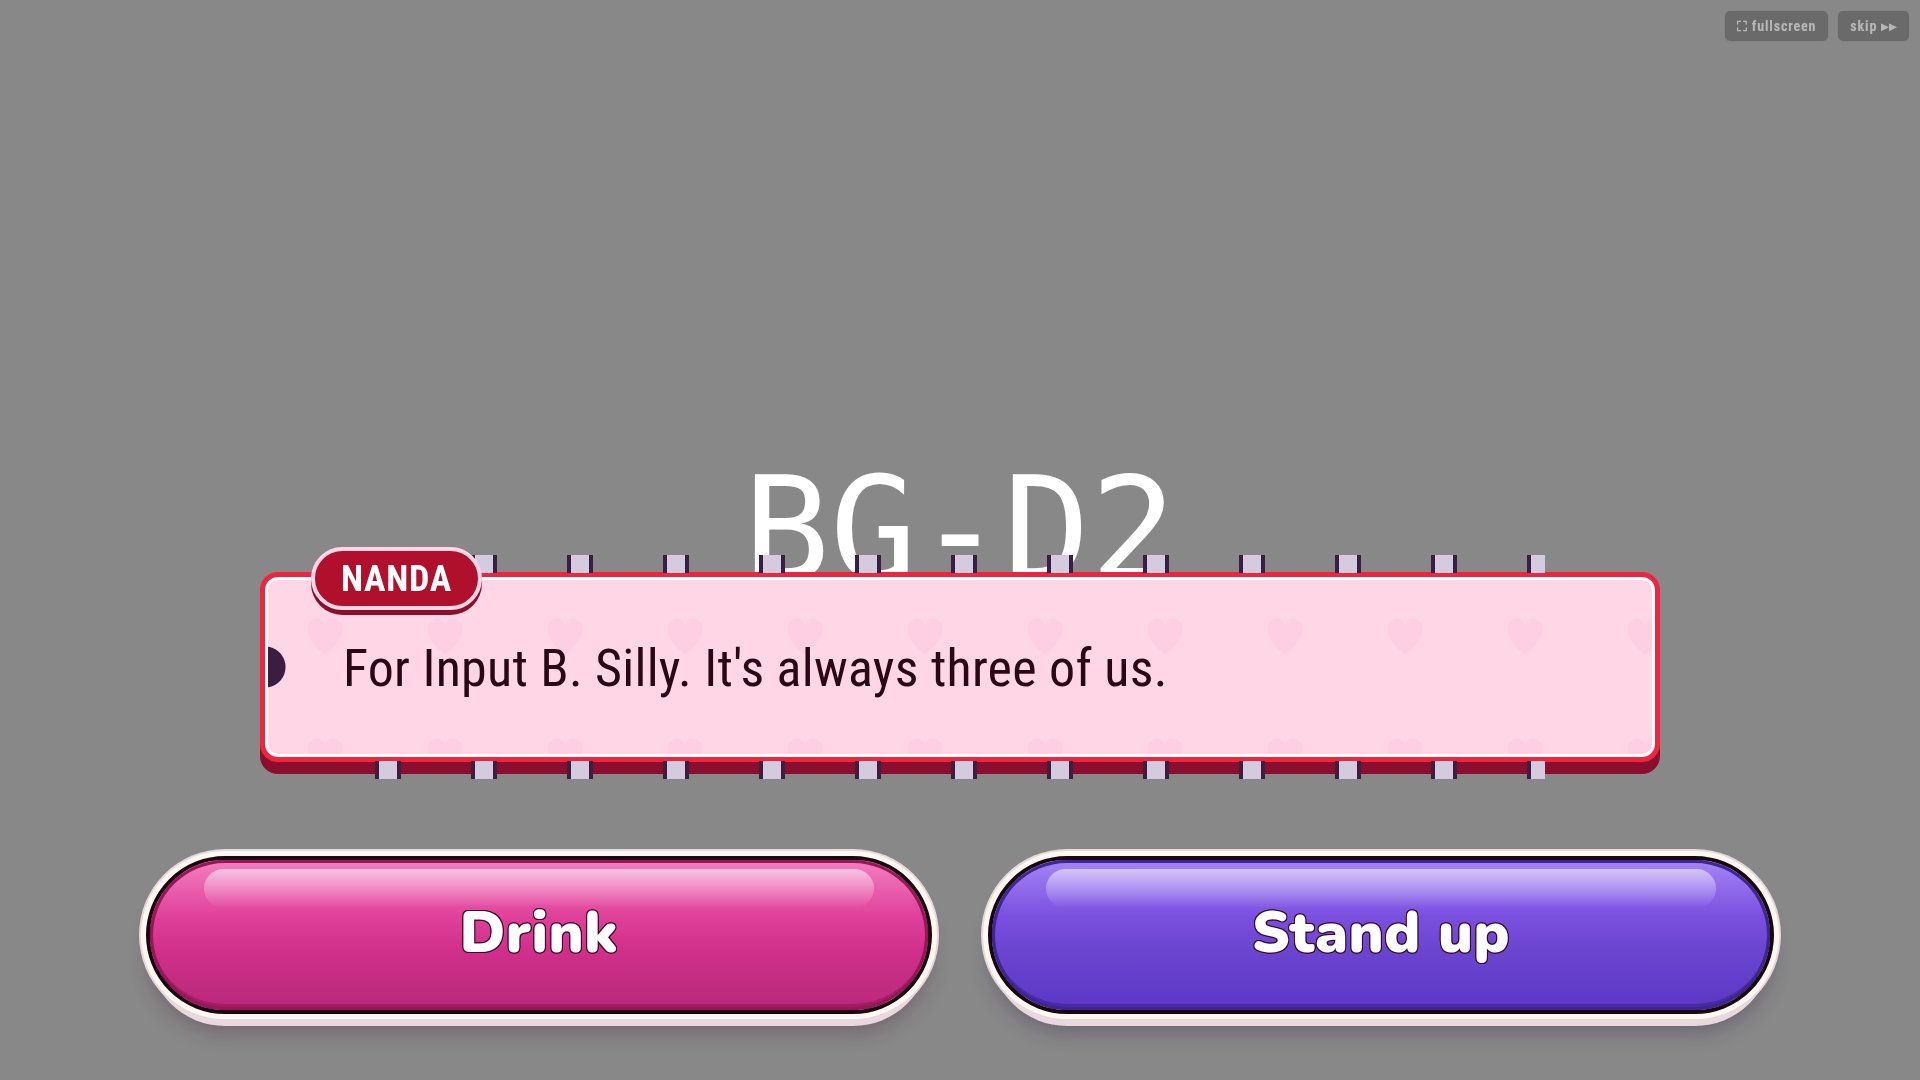
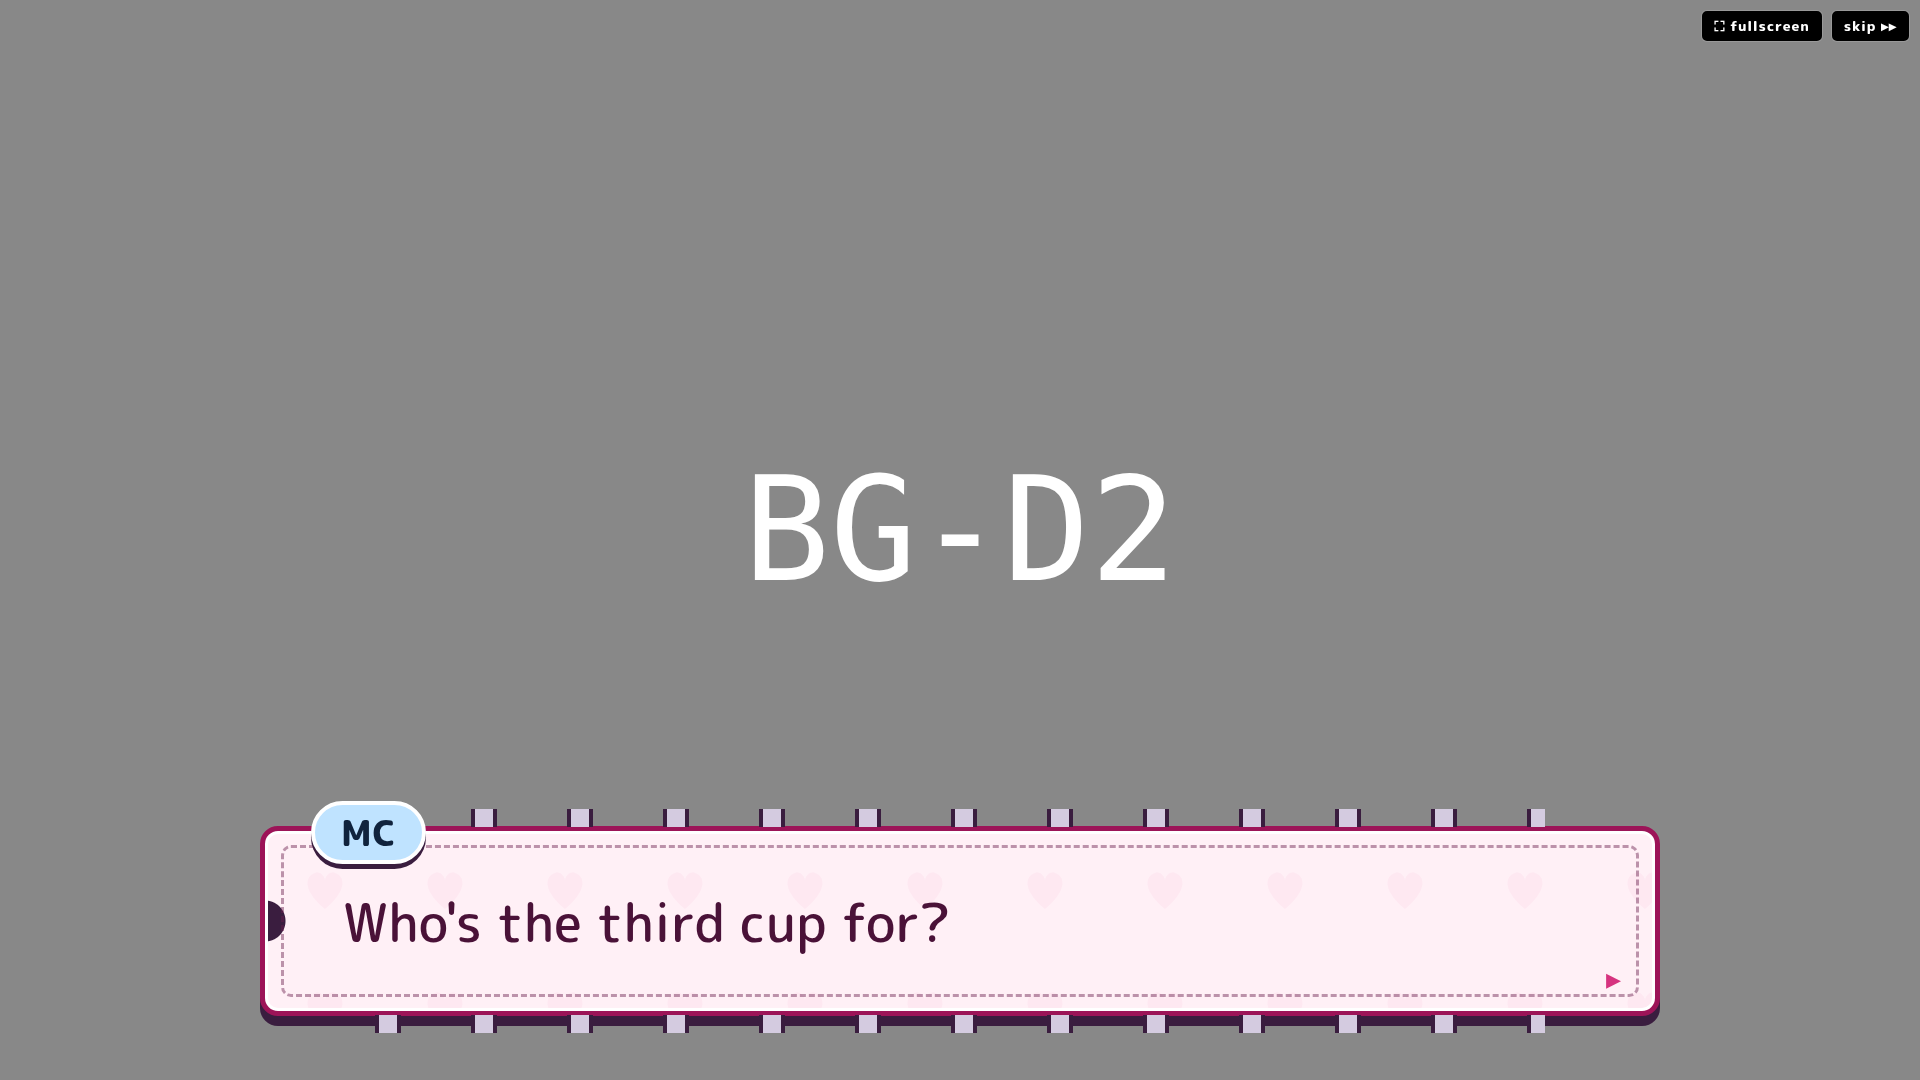
date-beta: rounded fonts as default (M PLUS Rounded 1c UI, Nunito buttons); logic mode unchanged
Claude-Session: https://claude.ai/code/session_01LMp4ytNc9QnJ9wNrbmcww6

Changed region(s): [[0.0625, 0.4889, 0.9375, 0.9778], [0.875, 0.0, 1.0, 0.0611]]

diff --git a/src/date-beta/tokens.css b/src/date-beta/tokens.css
@@ -1,9 +1,9 @@
 /* date-beta design tokens (engine-owned). Loaded by theme.js for chrome AND art. Values: UXUI-SPEC R2b §3 + R2c. */
 :root {
   /* fonts */
-  --cond: 'Roboto Condensed', 'Arial Narrow', sans-serif;
+  --cond: 'M PLUS Rounded 1c', 'Arial Narrow', sans-serif;
   --mono: 'JetBrains Mono', 'DejaVu Sans Mono', monospace;
-  --btn: 'Nunito', 'Roboto Condensed', sans-serif;
+  --btn: 'Nunito Variable', 'Nunito', sans-serif;
   --jp: 'Hiragino Kaku Gothic StdN', 'Hiragino Sans', 'Yu Gothic', 'Meiryo', 'Noto Sans CJK JP', 'IPAGothic', sans-serif;
   --jp-serif: 'Hiragino Mincho ProN', 'Yu Mincho', 'Noto Serif CJK JP', 'IPAMincho', 'IPAPMincho', serif;
   /* locks */

diff --git a/src/date-beta/theme.js b/src/date-beta/theme.js
@@ -11,5 +11,8 @@ import '@fontsource/inter-tight/900-italic.css';
 import '@fontsource/jetbrains-mono/400.css';
 import '@fontsource/jetbrains-mono/700.css';
 import '@fontsource/nunito/900.css';
+import '@fontsource-variable/nunito/wght.css';
+import '@fontsource/m-plus-rounded-1c/500.css';
+import '@fontsource/m-plus-rounded-1c/800.css';
 import './tokens.css';
 import '../fontTrial.js';
